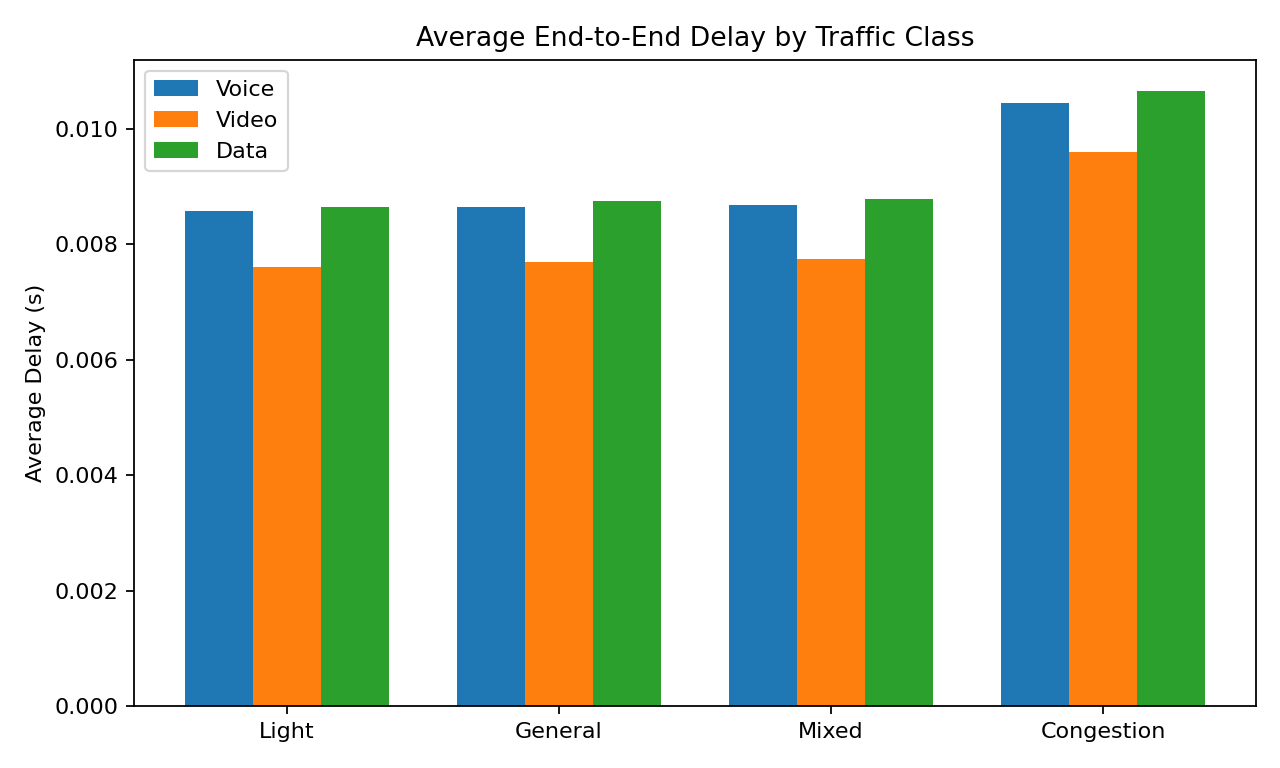
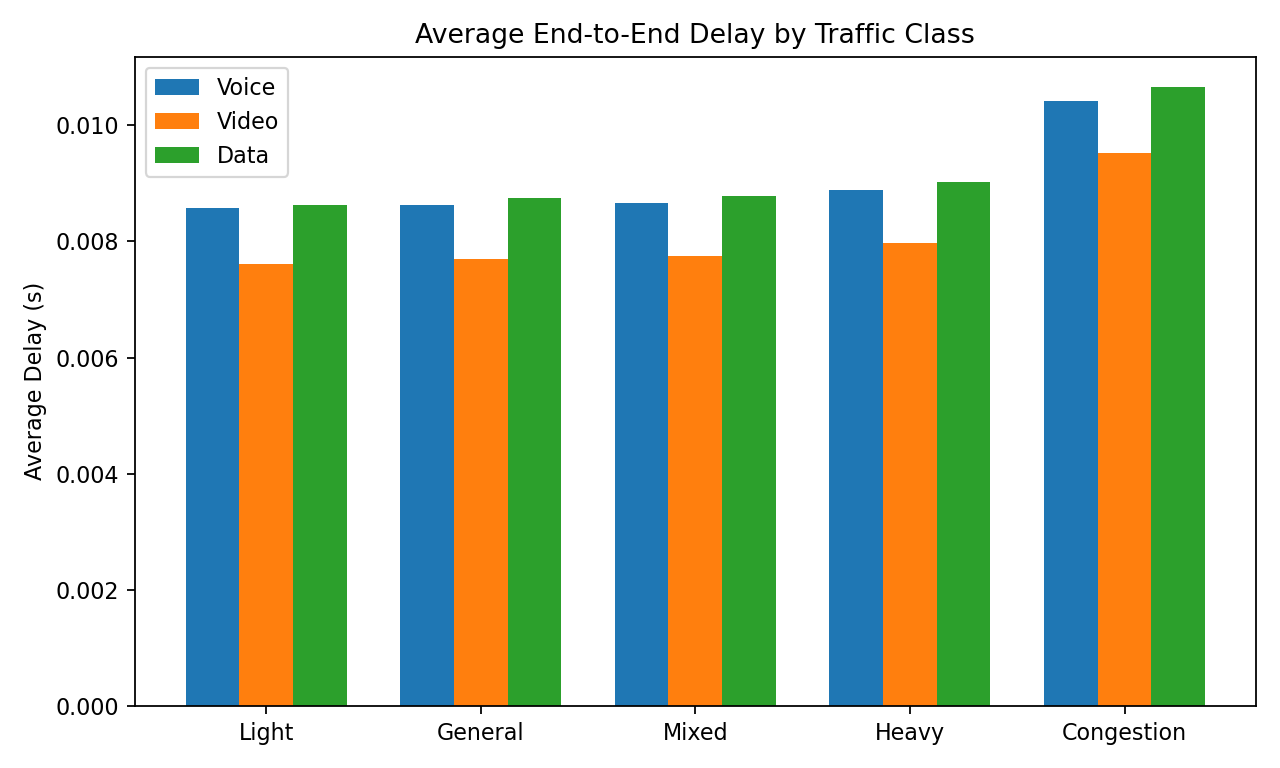
update: reports.tex

diff --git a/reports.tex b/reports.tex
@@ -251,7 +251,8 @@ RFC 4594: Configuration Guidelines for DiffServ Service Classes. IETF, 2006.
 ./SmartQueue -u Cmdenv -f omnetpp.ini -c Mixed
 ./SmartQueue -u Cmdenv -f omnetpp.ini -c Heavy
 ./SmartQueue -u Cmdenv -f omnetpp.ini -c Congestion
-opp_scavetool x results/* -o results/scalars.csv -F CSV-R
+opp_scavetool x results/*.sca -o results/scalars.csv -F CSV-R
+opp_scavetool x results/*.vec -o results/vectors.csv -F CSV-R
 python3 scripts/plot_metrics.py
 \end{verbatim}
 
